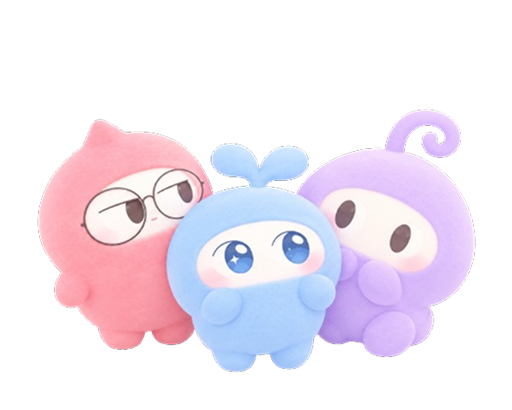
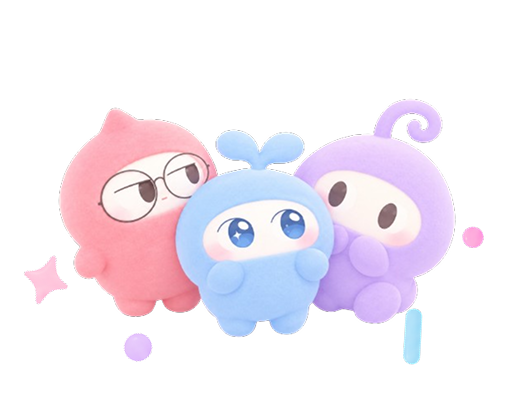
완료(79) 화면 보정 — + 색 #FFCD8C, 캐릭터 일러스트 교체
- withyou+의 "+" 흰색→#FFCD8C(디자인 업데이트 반영)
- 3캐릭터 일러스트 최신본으로 교체

Changed region(s): [[0.0312, 0.2347, 0.9688, 0.9095], [0.7188, 0.6748, 0.75, 0.7042]]

diff --git a/lib/screens/done_screen.dart b/lib/screens/done_screen.dart
@@ -55,7 +55,7 @@ class DoneScreen extends StatelessWidget {
                         fontFamily: 'BagelFatOne',
                         fontSize: 52,
                         fontWeight: FontWeight.w400,
-                        color: Colors.white,
+                        color: Color(0xFFFFCD8C),
                       ),
                     ),
                     TextSpan(text: '를\n이용할 준비가 다 되었어요!'),
